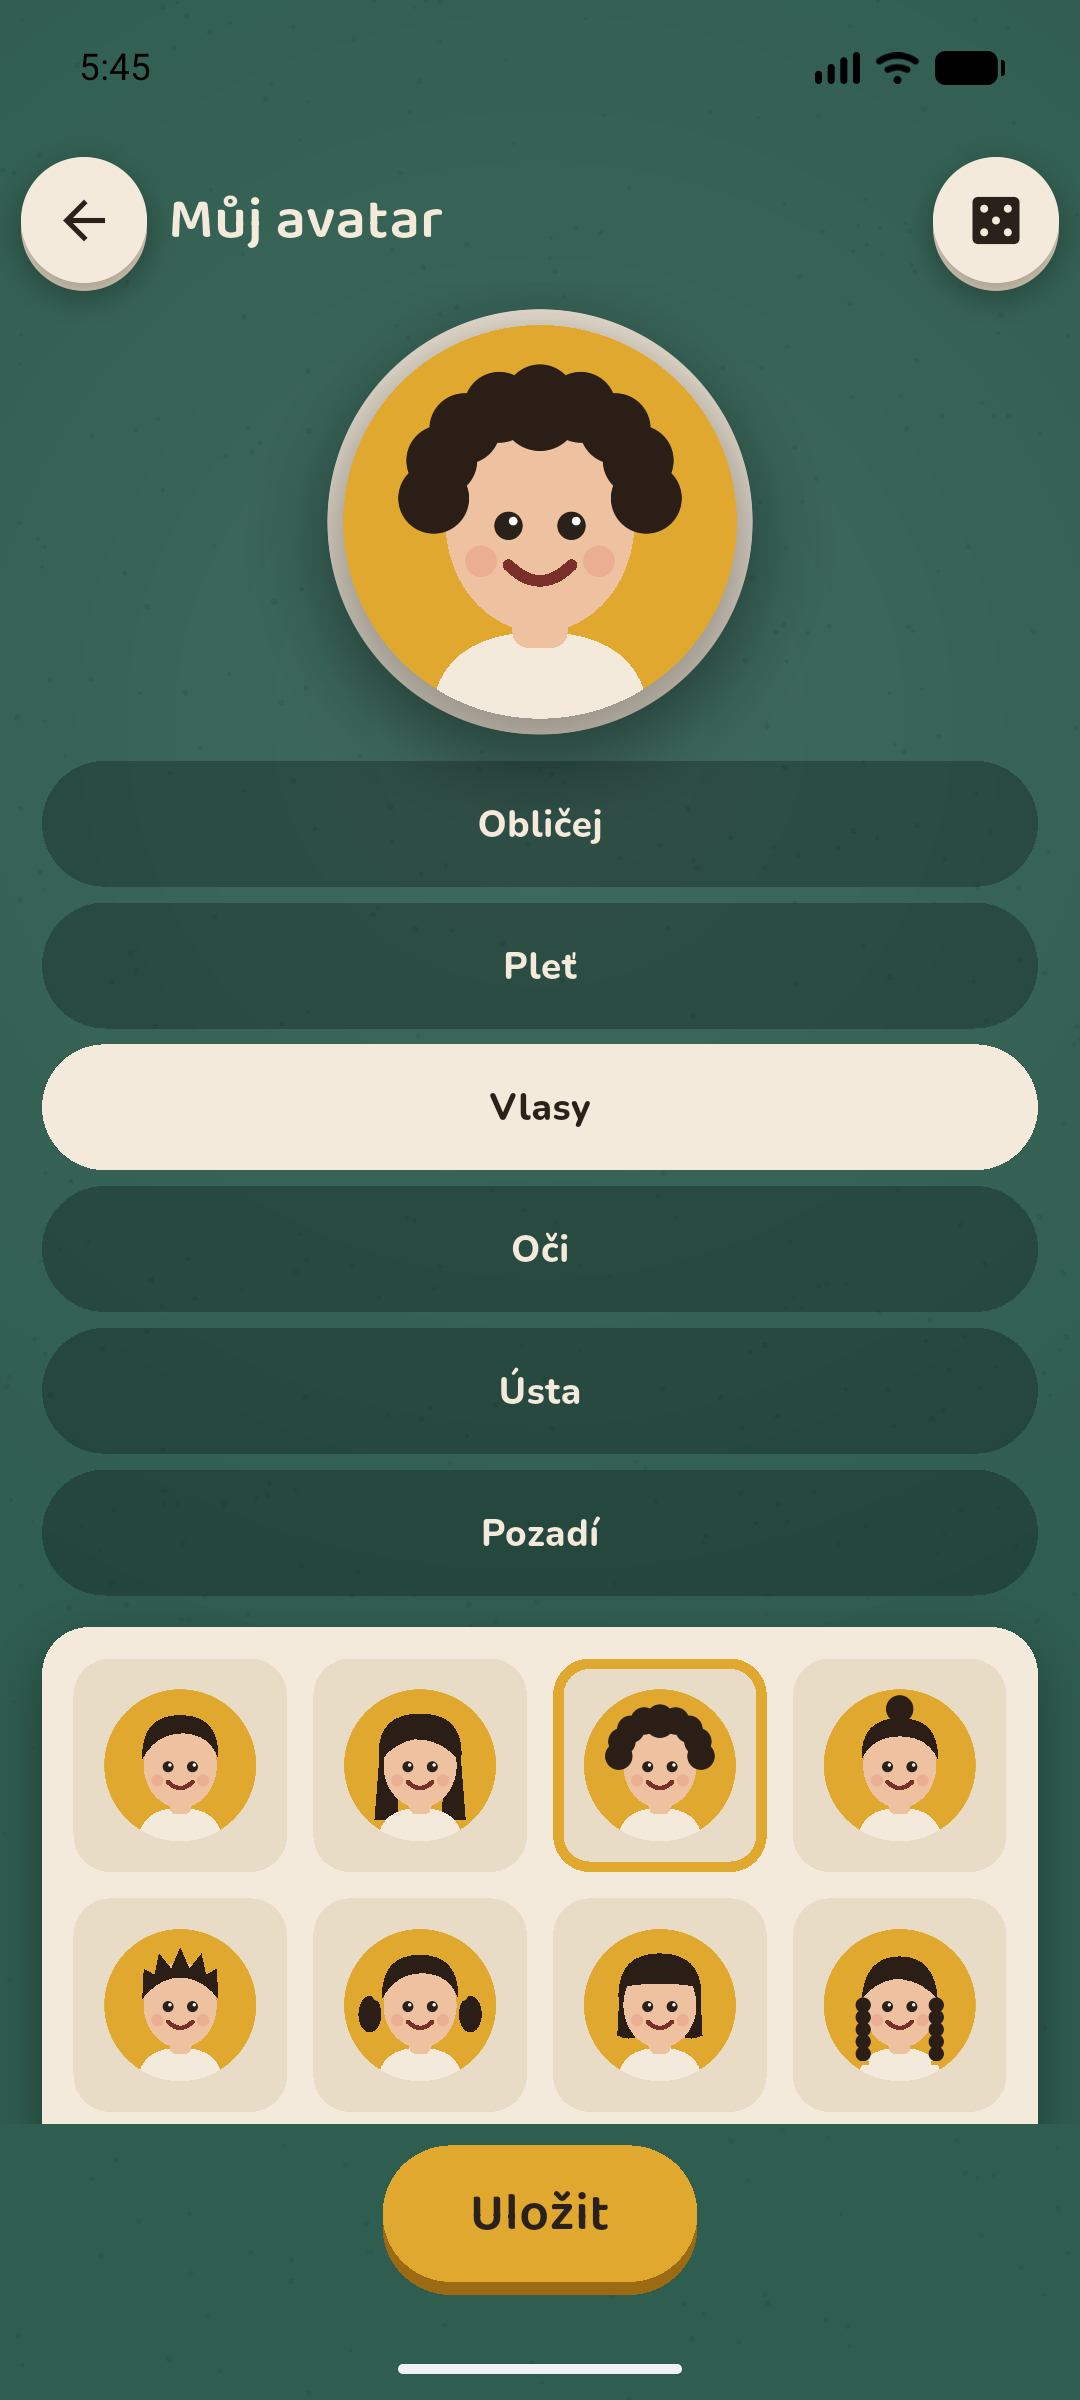
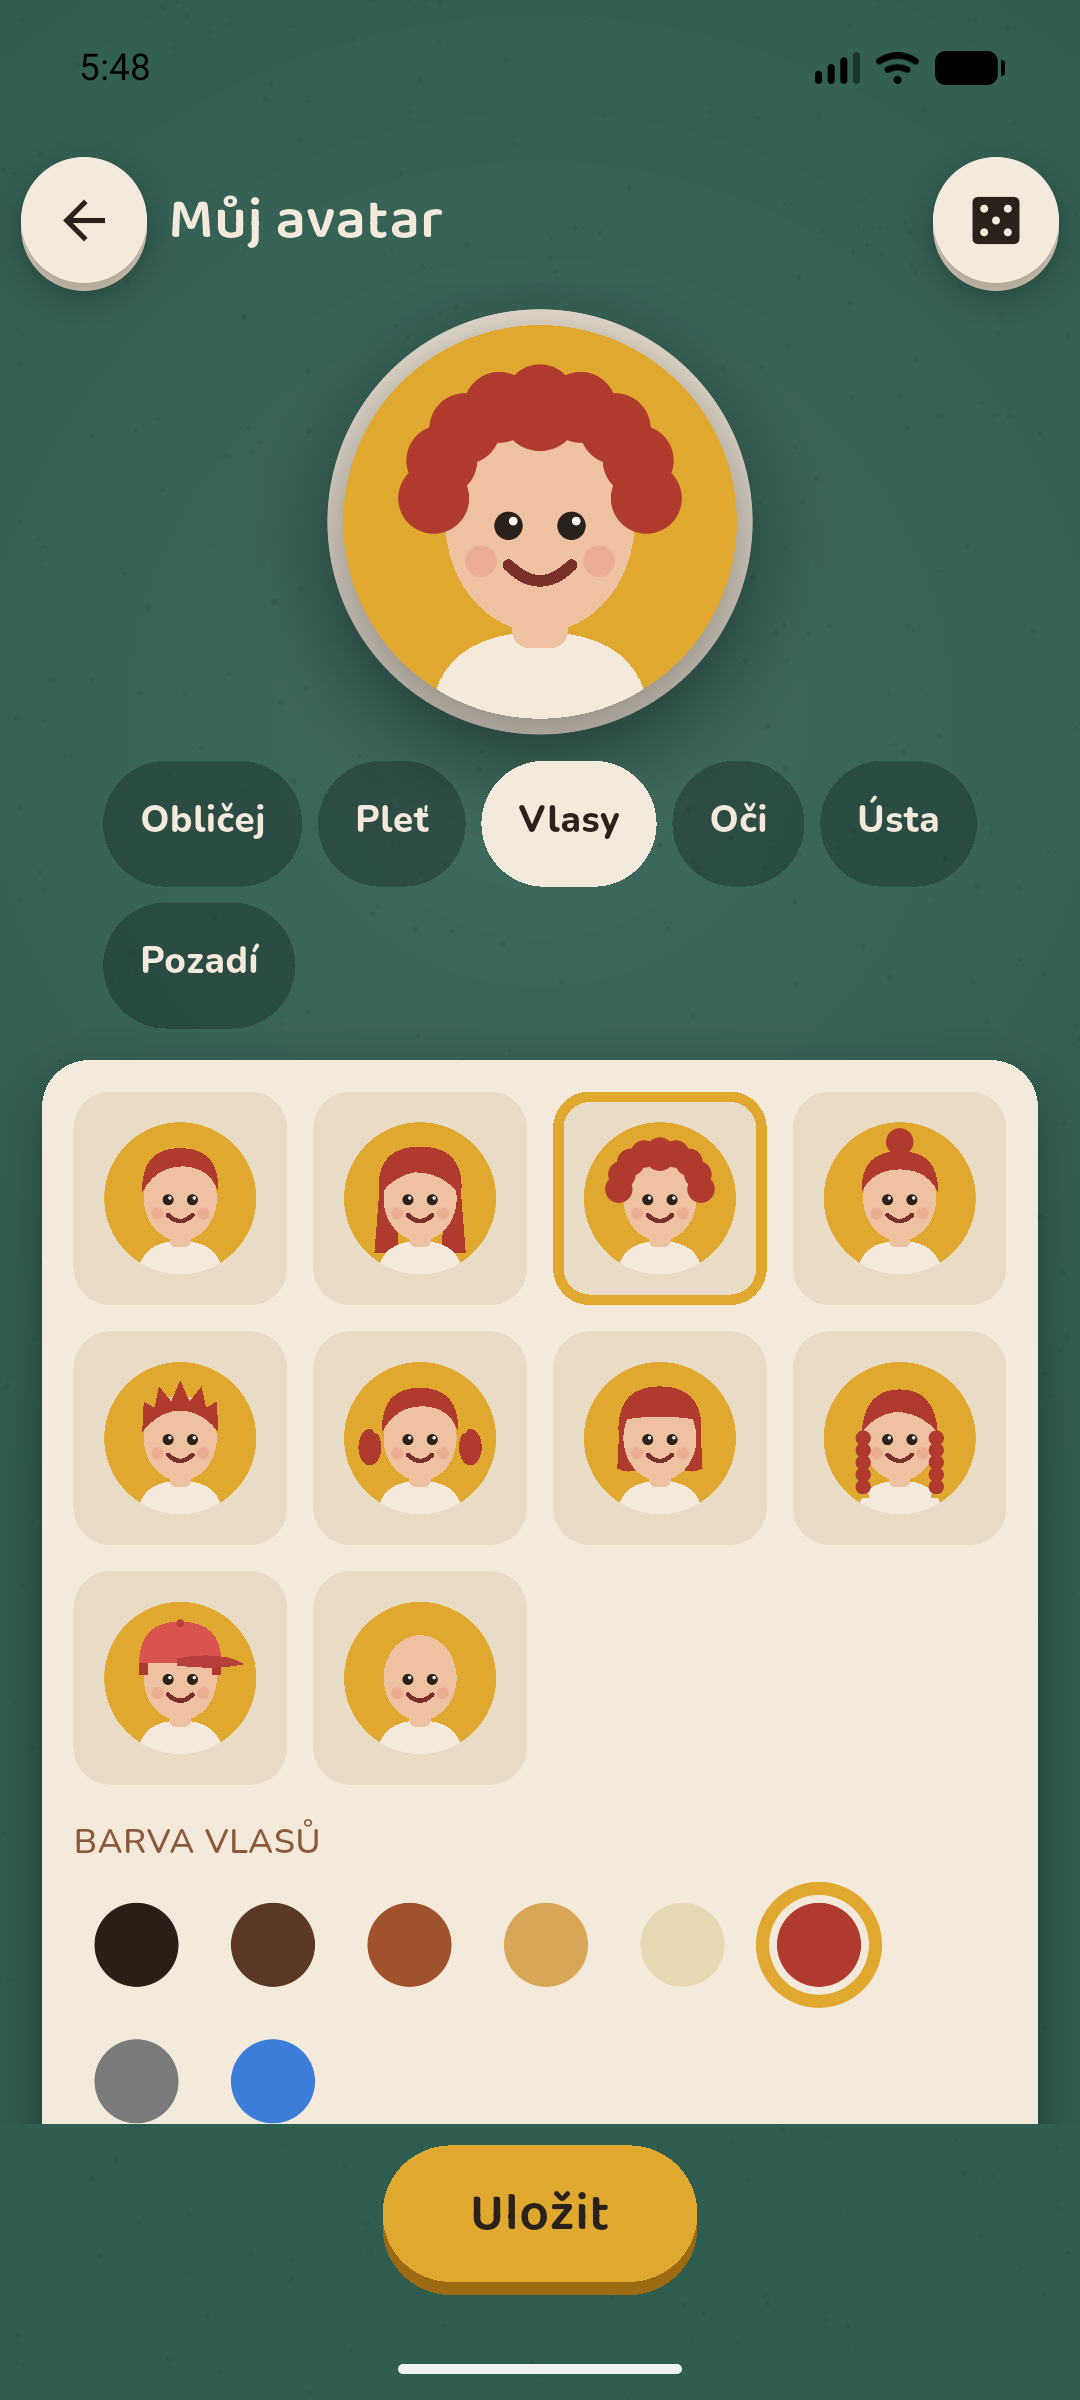
fix(avatar_editor): full-width options card, tabs aligned left

diff --git a/test/features/avatar_editor/avatar_editor_screen_test.dart b/test/features/avatar_editor/avatar_editor_screen_test.dart
@@ -5,6 +5,7 @@ import 'package:deskovky/core/avatar/avatar_spec.dart';
 import 'package:deskovky/features/avatar_editor/avatar_editor_screen.dart';
 import 'package:deskovky/l10n/app_localizations.dart';
 import 'package:deskovky/ui_kit/avatar/avatar_view.dart';
+import 'package:deskovky/ui_kit/components/paper_card.dart';
 import 'package:deskovky/ui_kit/tokens/app_theme.dart';
 import 'package:flutter/material.dart';
 import 'package:flutter/rendering.dart';
@@ -180,6 +181,17 @@ void main() {
       final pill = find.ancestor(of: find.text(t), matching: find.byType(Container)).first;
       expect(tester.getSize(pill).width, lessThan(160), reason: '$t pill is ${tester.getSize(pill)}');
     }
+  });
+
+  testWidgets('options card keeps the same width and tabs start at the left on every tab', (tester) async {
+    await _pumpEditor(tester);
+    final widths = <double>{};
+    for (final tab in ['Obličej', 'Pleť', 'Vlasy', 'Oči', 'Ústa', 'Pozadí']) {
+      await _tapTab(tester, tab);
+      widths.add(tester.getSize(find.byType(PaperCard)).width);
+    }
+    expect(widths, hasLength(1), reason: 'card widths $widths');
+    expect(tester.getTopLeft(find.text('Obličej')).dx, lessThan(48));
   });
 
   testWidgets('tablet shows preview and options side by side', (tester) async {

diff --git a/lib/features/avatar_editor/avatar_editor_screen.dart b/lib/features/avatar_editor/avatar_editor_screen.dart
@@ -78,10 +78,17 @@ class _AvatarEditorScreenState extends State<AvatarEditorScreen> {
         ),
       ),
     );
-    final tabs = _LayerTabs(selected: _layer, onSelected: (layer) => setState(() => _layer = layer));
+    final tabs = Align(
+      alignment: Alignment.centerLeft,
+      child: _LayerTabs(selected: _layer, onSelected: (layer) => setState(() => _layer = layer)),
+    );
+    // Full width on every tab, so the card does not jump when switching.
     final options = Padding(
       padding: const EdgeInsets.fromLTRB(16, 12, 16, 16),
-      child: PaperCard(child: _LayerOptions(layer: _layer, spec: _spec, onChanged: _update)),
+      child: SizedBox(
+        width: double.infinity,
+        child: PaperCard(child: _LayerOptions(layer: _layer, spec: _spec, onChanged: _update)),
+      ),
     );
     final save = Padding(
       padding: const EdgeInsets.fromLTRB(16, 8, 16, 16),
